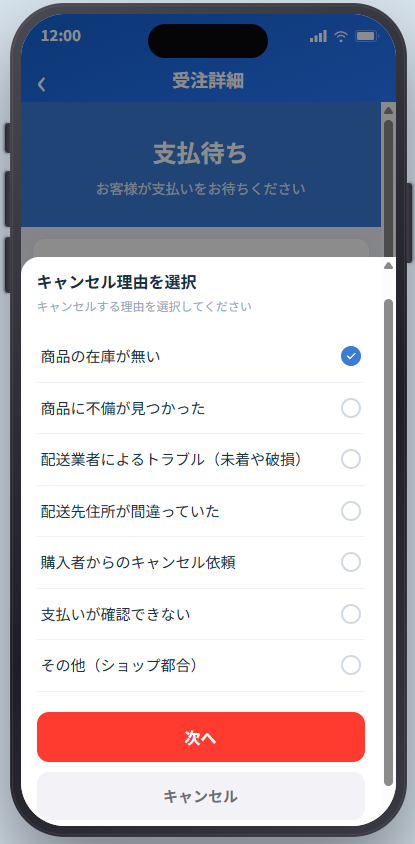
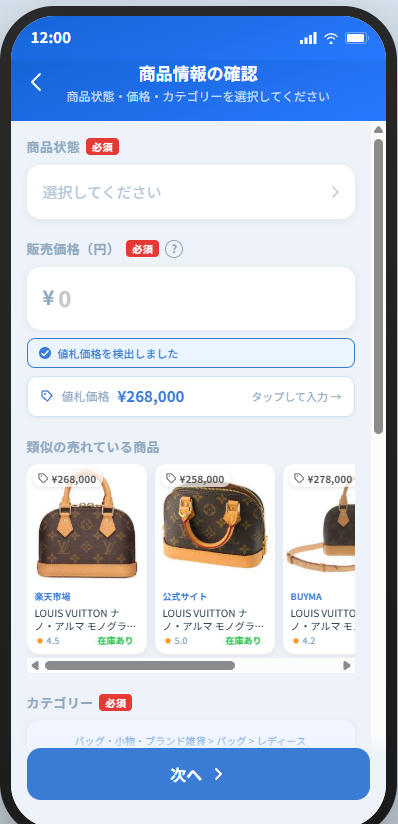
Update ls-1 step 3 text and add image17/18

diff --git a/index.html b/index.html
@@ -11,7 +11,7 @@
     <link rel="preconnect" href="https://fonts.googleapis.com" />
     <link rel="preconnect" href="https://fonts.gstatic.com" crossorigin />
     <link href="https://fonts.googleapis.com/css2?family=Noto+Sans+JP:wght@400;500;600;700&display=swap" rel="stylesheet" />
-    <script type="module" crossorigin src="/reuse-ai-manual/userAssets/index-yu9XXDq_.js"></script>
+    <script type="module" crossorigin src="/reuse-ai-manual/userAssets/index-BjkEjQmJ.js"></script>
     <link rel="stylesheet" crossorigin href="/reuse-ai-manual/userAssets/index-DnKccOGe.css">
   </head>
   <body>
